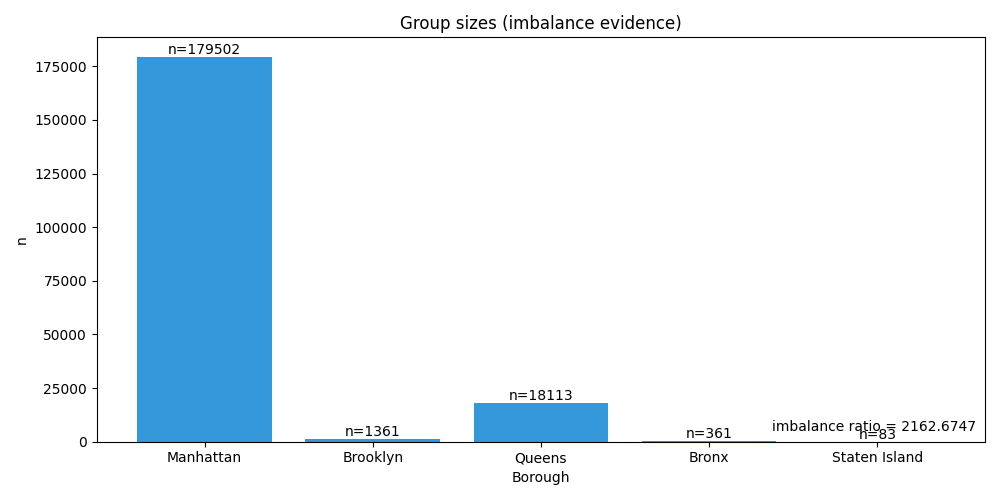
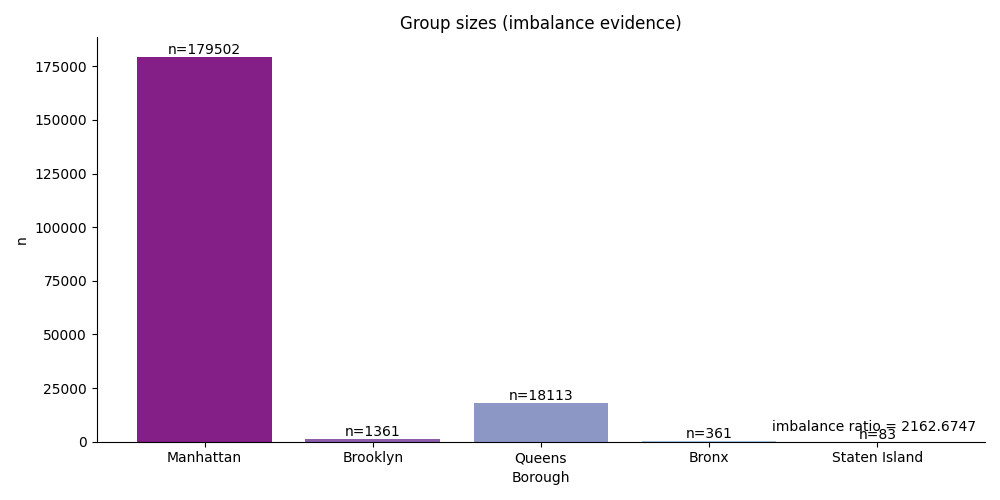
refactor(viz): single BuPu_r palette and despine across all plots

Changed region(s): [[0.124, 0.09, 0.279, 0.9], [0.465, 0.78, 0.62, 0.9], [0.31, 0.87, 0.434, 0.9]]

diff --git a/src/broadway/stats/describe.py b/src/broadway/stats/describe.py
@@ -11,6 +11,7 @@ import matplotlib.pyplot as plt
 import pandas as pd
 from pydantic import BaseModel, ConfigDict
 
+from broadway import viz
 from broadway.analysis.contracts import AnalysisMode, require_mode
 from broadway.config.schema import PipelineConfig
 from broadway.lineage.ids import node_id
@@ -73,13 +74,17 @@ def plot_group_distribution(df: pd.DataFrame, source_group_column: str, group_co
     data = [df[df[source_group_column] == g][target].dropna().to_numpy() for g in group_values]
     labels = [f"{g} (n={len(v)})" for g, v in zip(group_values, data)]
     fig, ax = plt.subplots(figsize=(10, 5))
-    ax.boxplot(data, tick_labels=labels)
+    colors = viz.palette_colors(len(data))
+    bp = ax.boxplot(data, tick_labels=labels, patch_artist=True)
+    for patch, color in zip(bp["boxes"], colors):
+        patch.set_facecolor(color)
     ax.set_xlabel(group_column)
     ax.set_ylabel(target)
     ax.set_title("Group distribution (target by group)")
     absent = [g for g, v in zip(group_values, data) if len(v) == 0]
     if absent:
         ax.text(0.99, 0.02, f"absent (n=0): {', '.join(absent)}", transform=ax.transAxes, ha="right", va="bottom", color="red")
+    viz.despine(ax)
     fig.tight_layout()
     fig.savefig(out_path)
     plt.close(fig)
@@ -89,7 +94,7 @@ def plot_group_sizes(summary: GroupSummary, out_path: Path) -> None:
     names = list(summary.groups.keys())
     sizes = [summary.groups[g].n for g in names]
     fig, ax = plt.subplots(figsize=(10, 5))
-    colors = ["#c0392b" if s == 0 else "#3498db" for s in sizes]
+    colors = viz.palette_colors(len(names))
     ax.bar(names, sizes, color=colors)
     ax.set_ylabel("n")
     ax.set_xlabel(summary.group_column)
@@ -97,6 +102,7 @@ def plot_group_sizes(summary: GroupSummary, out_path: Path) -> None:
     for i, s in enumerate(sizes):
         ax.text(i, s, f"n={s}", ha="center", va="bottom")
     ax.text(0.99, 0.02, f"imbalance ratio = {summary.imbalance_ratio}", transform=ax.transAxes, ha="right", va="bottom")
+    viz.despine(ax)
     fig.tight_layout()
     fig.savefig(out_path)
     plt.close(fig)

diff --git a/src/broadway/timeline/runners.py b/src/broadway/timeline/runners.py
@@ -12,6 +12,7 @@ import numpy as np
 import pandas as pd
 from scipy import stats
 
+from broadway import viz
 from broadway.analysis.contracts import AnalysisContract
 from broadway.config.schema import PipelineConfig
 from broadway.data.loader import canonical_path
@@ -192,15 +193,16 @@ def _plot_qq_joint(
     names = list(groups)[:max_groups]
     fig = plt.figure(figsize=(7, 7))
     ax = fig.add_subplot(111)
+    colors = viz.palette_colors(len(names))
     osm_all: list[np.ndarray] = []
     osr_all: list[np.ndarray] = []
-    for name in names:
+    for color, name in zip(colors, names):
         vals = np.asarray(groups[name], dtype=float)
         z = (vals - vals.mean()) / vals.std()
         osm, osr = stats.probplot(z, dist="norm", fit=False)
         osm_all.append(osm)
         osr_all.append(osr)
-        ax.scatter(osm, osr, s=10, label=name)
+        ax.scatter(osm, osr, s=10, label=name, color=color)
     lo = min(np.concatenate(osm_all).min(), np.concatenate(osr_all).min())
     hi = max(np.concatenate(osm_all).max(), np.concatenate(osr_all).max())
     ax.plot([lo, hi], [lo, hi], color="red", linestyle="--", linewidth=1)
@@ -208,6 +210,7 @@ def _plot_qq_joint(
     ax.set_ylabel("Sample quantiles (standardized)")
     ax.set_title("Joint per-group Q-Q plot (per-group standardization)")
     ax.legend()
+    viz.despine(ax)
     fig.tight_layout()
     fig.savefig(out_path)
     plt.close(fig)

diff --git a/src/broadway/stats/diagnostics.py b/src/broadway/stats/diagnostics.py
@@ -13,6 +13,7 @@ from statsmodels.stats.diagnostic import het_breuschpagan
 from statsmodels.stats.stattools import durbin_watson as _durbin_watson
 from statsmodels.stats.stattools import jarque_bera
 
+from broadway import viz
 from broadway.stats.diagnostic_models import DiagnosticResult
 
 
@@ -33,11 +34,12 @@ def durbin_watson(resid: np.ndarray) -> float:
 def _plot_residuals_vs_fitted(ax, model) -> None:
     fitted = model.fittedvalues
     resid = model.resid
-    ax.scatter(fitted, resid, s=2, alpha=0.15)
+    ax.scatter(fitted, resid, s=2, alpha=0.15, color=viz.palette_colors(1)[0])
     ax.axhline(0, color="red", linewidth=1)
     ax.set_xlabel("Fitted values")
     ax.set_ylabel("Residuals")
     ax.set_title("Residuals vs Fitted")
+    viz.despine(ax)
 
 
 def plot_residuals_vs_fitted(model: object, out_path: str) -> None:
@@ -72,10 +74,12 @@ def plot_residuals(model, out_path: str) -> None:
     sm.qqplot(resid, line="45", ax=axes[1], markersize=2, alpha=0.15)
     axes[1].set_title("Q-Q Plot of Residuals")
 
-    axes[2].hist(resid, bins=100)
+    axes[2].hist(resid, bins=100, color=viz.palette_colors(1)[0])
     axes[2].set_title("Residual Distribution")
     axes[2].set_xlabel("Residual")
 
+    for ax in axes:
+        viz.despine(ax)
     plt.tight_layout()
     plt.savefig(out_path, dpi=150)
     plt.close(fig)

diff --git a/tests/test_qq.py b/tests/test_qq.py
@@ -1,5 +1,6 @@
 from __future__ import annotations
 
+import inspect
 from pathlib import Path
 
 import numpy as np
@@ -7,6 +8,7 @@ import pandas as pd
 import pytest
 import yaml
 
+from broadway import viz
 import broadway.discover.module as discover_module
 from broadway.config.loader import load_config
 from broadway.discover.profile import ColumnProfile, DatasetProfile
@@ -447,3 +449,8 @@ def test_render_profile_includes_qq_evidence() -> None:
 def test_render_profile_without_qq_has_no_evidence_section() -> None:
     md = audit.render_profile(_profile(), source="artifacts/discover/profile.json")
     assert "## Profile evidence" not in md
+
+
+def test_plot_numeric_qq_default_palette_is_shared() -> None:
+    sig = inspect.signature(plot_numeric_qq)
+    assert sig.parameters["palette"].default == viz.PALETTE

diff --git a/src/broadway/discover/qq.py b/src/broadway/discover/qq.py
@@ -24,6 +24,8 @@ import seaborn as sns
 from pydantic import BaseModel, ConfigDict
 from scipy import stats
 
+from broadway import viz
+
 MAX_FEATURES_PER_FIGURE = 12
 MAX_POINTS_PER_TRACE = 2_000   # Q-Q shape is preserved well below this
 FIG_SIZE_PER_SUBPLOT = 3.0     # inches; total figure scales with the grid
@@ -181,7 +183,7 @@ def plot_numeric_qq(
     fig_size_per_subplot: float = FIG_SIZE_PER_SUBPLOT,
     dpi: int = DEFAULT_DPI,
     standardization: str = "per-feature z-score",
-    palette: str = "BuPu_r",
+    palette: str = viz.PALETTE,
 ) -> QqOverview:
     figures_dir = Path(figures_dir)
     evidence_path = Path(evidence_path)

diff --git a/src/broadway/stats/time_series.py b/src/broadway/stats/time_series.py
@@ -7,6 +7,8 @@ import numpy as np
 from statsmodels.graphics.tsaplots import plot_acf as _plot_acf
 from statsmodels.stats.stattools import durbin_watson
 
+from broadway import viz
+
 
 def durbin_watson_test(resid: np.ndarray) -> float:
     return float(durbin_watson(np.asarray(resid, dtype=float)))
@@ -14,5 +16,7 @@ def durbin_watson_test(resid: np.ndarray) -> float:
 
 def plot_acf(resid: np.ndarray, lags: int, out_path: str) -> None:
     fig = _plot_acf(np.asarray(resid, dtype=float), lags=lags)
+    for ax in fig.axes:
+        viz.despine(ax)
     fig.savefig(out_path)
     plt.close(fig)

diff --git a/tests/test_viz.py b/tests/test_viz.py
@@ -1,0 +1,18 @@
+from __future__ import annotations
+
+import inspect
+
+from broadway import viz
+
+
+def test_palette_is_bupu_r() -> None:
+    assert viz.PALETTE == "BuPu_r"
+
+
+def test_palette_colors_returns_requested_count() -> None:
+    assert len(viz.palette_colors(3)) == 3
+
+
+def test_despine_is_callable() -> None:
+    assert callable(viz.despine)
+    assert "ax" in inspect.signature(viz.despine).parameters

diff --git a/src/broadway/viz.py b/src/broadway/viz.py
@@ -1,0 +1,15 @@
+"""Shared plotting style: one palette and a despine helper."""
+
+from __future__ import annotations
+
+import seaborn as sns
+
+PALETTE = "BuPu_r"
+
+
+def palette_colors(n: int) -> list:
+    return sns.color_palette(PALETTE, n)
+
+
+def despine(ax) -> None:
+    sns.despine(ax=ax)
